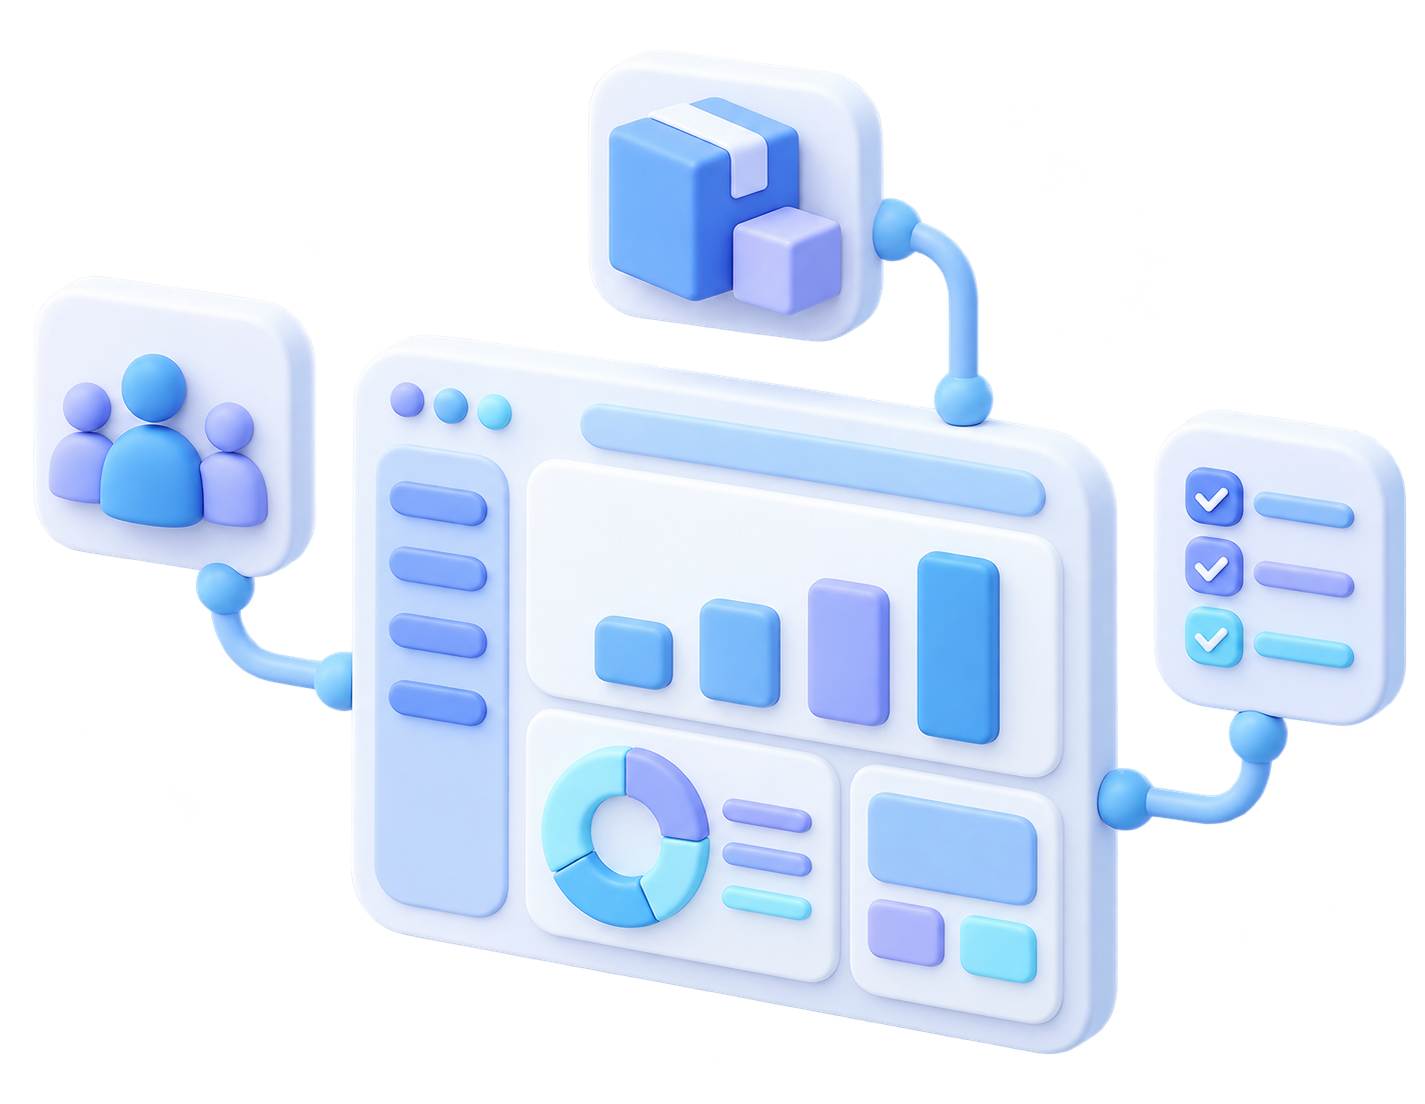
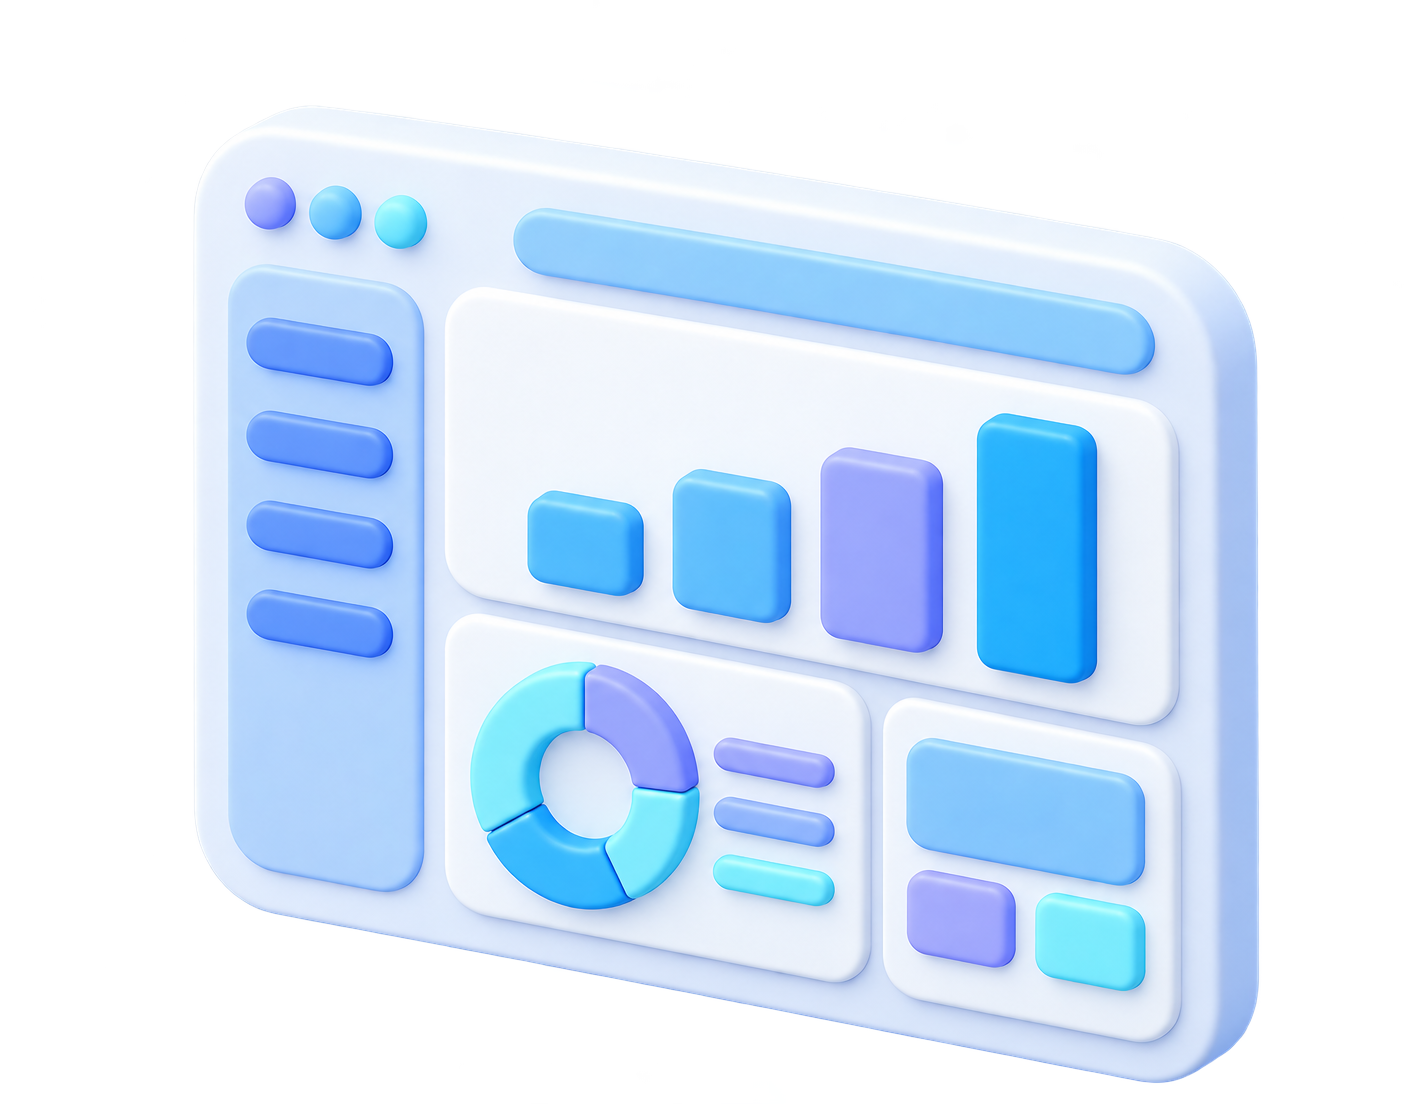
Simplify hero and show fixed Oni and Woni result characters

diff --git a/erp.js b/erp.js
@@ -1,5 +1,5 @@
 import { options, label, calculate, validateAnswers } from './supabase/functions/_shared/erp-rules.js';
-import { randomMascot, celebrate } from './erp-effects.js';
+import { resultCharacters, celebrate } from './erp-effects.js';
 
 const app = document.querySelector('#app');
 let stopCelebration = () => {};
@@ -22,7 +22,7 @@ function mount(html, focus = true) {
 function button(text, id, style='primary') { return `<button class="button ${style}" id="${id}" type="button">${text}</button>`; }
 function home() {
  state.step=-1;
- mount(`<section class="hero screen"><div class="hero-copy"><span class="pill"><i></i> 우리 회사의 다음 성장을 위한 첫걸음</span><p class="eyebrow">FIND YOUR NEXT ERP</p><h1>우리 회사에 딱 맞는<br><span>ERP, 함께 찾아볼까요?</span></h1><p class="hero-description">업무 방식부터 우리 회사만의 고민까지.<br>5가지 질문으로 만나는 <strong>ERP 가상 컨설팅 진단</strong></p><div class="hero-actions">${button('우리 회사 ERP 진단하기 <span aria-hidden="true">↗</span>','start')}<span class="time-note">약 3분 · 5가지 질문</span></div><div class="hero-points"><span>01 <b>우리 회사 이해하기</b></span><span>02 <b>업무 니즈 분석하기</b></span><span>03 <b>맞춤 ERP 만나기</b></span></div></div><div class="hero-art"><div class="art-orbit"></div><img class="dashboard" src="assets/erp-dashboard.png" alt="회계, 프로젝트, 재고를 연결하는 3D ERP 대시보드" fetchpriority="high"><span class="float-card float-top"><i class="mini-dot"></i> 흩어진 업무를 하나로</span><span class="float-card float-bottom"><span class="spark">✦</span> 성장에 맞는 솔루션</span></div><div class="hero-bottom"><span class="scroll-line"></span> 복잡한 ERP 선택, 이제 쉽게 시작하세요.</div></section>`,false);
+ mount(`<section class="hero"><div class="hero-copy"><p class="eyebrow">FIND YOUR NEXT ERP</p><h1>우리 회사에 딱 맞는<br><span>ERP, 함께 찾아볼까요?</span></h1><p class="hero-description">업무 방식부터 우리 회사만의 고민까지.<br>5가지 질문으로 만나는 <strong>ERP 가상 컨설팅 진단</strong></p><div class="hero-actions"><span class="time-note">약 3분 · 5가지 질문</span>${button('우리 회사 ERP 진단하기 <span aria-hidden="true">↗</span>','start')}</div><div class="hero-points"><span>01 <b>우리 회사 이해하기</b></span><span>02 <b>업무 니즈 분석하기</b></span><span>03 <b>맞춤 ERP 만나기</b></span></div></div><div class="hero-art"><img class="dashboard" src="assets/erp-dashboard.png" alt="막대그래프와 도넛 차트가 있는 심플한 3D ERP 대시보드" fetchpriority="high" width="1424" height="1104"></div><div class="hero-bottom"><span class="scroll-line"></span> 복잡한 ERP 선택, 이제 쉽게 시작하세요.</div></section>`,false);
  document.querySelector('#start').onclick=()=>{state.step=0;contactPage();};
 }
 function contactPage() {
@@ -55,7 +55,6 @@ function question(focus=true) {
  document.querySelector('#next').onclick=()=>{if(!complete(n)){const error=document.querySelector('#question-error');error.textContent='선택하지 않은 항목을 확인해 주세요.';return;}if(n<5){state.step++;question();}else analyze();};
 }
 function analyze() {
- state.mascot=null;
  state.result=calculate(state.answers);state.id=crypto.randomUUID();state.saved=false;
  mount(`<section class="loading screen"><div class="analysis-orb"><span>✦</span></div><p class="eyebrow">CONNECTING THE DOTS</p><h1>우리 회사의 다음 ERP를<br>찾고 있어요.</h1><p id="loading-copy" role="status" aria-live="polite">업종과 업무 방식을 살펴보고 있어요</p><div class="analysis-bars"><i></i><i></i><i></i></div></section>`);
  setTimeout(()=>{const copy=document.querySelector('#loading-copy');if(copy)copy.textContent='성장 규모와 필요한 기능을 연결하고 있어요';},650);
@@ -84,7 +83,6 @@ function recommendationDetails() {
  return [['현재 업무의 불편',label('pain',a.pain||'unknown')],['운영 범위',label('complexity',a.complexity||'unknown')],['현재 ERP',label('erp',a.erp)],...(a.erp==='douzone'?[['현재 제품',label('currentProduct',a.currentProduct||'unknown')],['자기평가 활용도',label('level',a.level)]]:[['관심 영역',label('category',a.category)]]),['보완할 기능',a.needs.map(id=>label('needs',id)).join(' / ')],['별도 개발·연계',label('custom',a.custom)],['연 매출 (참고)',label('revenue',a.revenue)],['임직원 (참고)',label('staff',a.staff)]];
 }
 function resultPage() {
- state.mascot ||= randomMascot();
  const r=state.result,a=state.answers;
  const headings={clarify:'업무 요구사항을 확인하면,\n더 적합한 후보를 찾을 수 있어요.',maintain:'지금의 방식을 살펴보고,\n필요한 부분만 보완하세요.',optimize:'이미 갖춘 ERP에서,\n개선의 가능성을 먼저 찾아보세요.',basic:'기본 경영 업무부터,\n필요한 범위를 차근차근.',integrate:'연결이 필요한 업무부터,\n통합 범위를 구체화해 보세요.',compare:'표준 기능과 확장 설계를,\n함께 비교해 보세요.'};
  const heading=headings[r.route];
@@ -99,12 +97,12 @@ function resultPage() {
  <div class="next-panel panel"><div><span class="eyebrow">BEFORE YOU DECIDE</span><h2>실제 도입 판단은,<br>업무 시나리오로 확인하세요.</h2></div><ol><li><b>필수 업무·예산 정리</b><span>실사용 인원, 월 거래량, 예산, 담당자와 목표 일정을 확인해요.</span></li><li><b>표준 기능으로 먼저 시연</b><span>보유 모듈과 후보 제품에서 실제 업무가 처리되는지 확인해요.</span></li><li><b>총비용·이전·운영 비교</b><span>라이선스, 개발·연계, 데이터 이전, 유지보수와 교육 비용을 함께 비교해요.</span></li></ol></div>
  <details class="rules panel"><summary>추천 기준과 내 답변 자세히 보기</summary><p>업종·매출·인원에 점수를 더하거나 50점 같은 임계값으로 제품을 나누지 않습니다. 현재 불편, 보완할 기능, 운영 복잡도와 기존 시스템을 기준으로 유지·활용 개선·후보 비교 방향을 정합니다. 자기평가 활용도는 객관적인 성숙도 등급이 아닙니다.</p><dl>${recommendationDetails().map(([key,value])=>`<div><dt>${key}</dt><dd>${esc(value)}</dd></div>`).join('')}</dl><p>구체적인 제품명·에디션·모듈 지원, 예산, 거래량, 데이터 이전과 도입 준비도는 상담에서 추가 확인해야 합니다. 본 규칙의 전환율·정확도는 아직 실증 검증되지 않았습니다.</p><p>규칙 버전: ${r.ruleVersion} · 기존 공유 링크도 최신 기준으로 다시 검토합니다.</p></details>
  <div class="result-actions">${button('이미지로 저장','download','secondary')}${button('PDF로 저장','print','secondary')}${button('결과 링크 공유','share')}${button('다시 진단하기','restart','text-button')}</div><p class="save-status" id="save-status" role="status">${state.shared?'공유된 답변을 최신 기준으로 검토했습니다. 회사명·담당자·이메일은 포함되지 않습니다.':state.saved?'진단 응답이 저장되었습니다.':'진단 결과는 현재 화면에서 확인할 수 있습니다.'}</p><p class="product-source">첨부 소개서는 기능 이해를 위한 자료이며, 계약 시점의 제품·에디션·모듈·요금은 별도 확인해 주세요.<br>제품 소개 참고: <a href="https://www.duzon119.co.kr/" target="_blank" rel="noopener">아이원소프트뱅크 ↗</a> · <a href="https://www.douzone.com/product/bportal.jsp" target="_blank" rel="noopener">더존 공식 제품 안내 ↗</a></p></section>`);
- const mascot=document.createElement('img');
- mascot.className='result-mascot';mascot.src=state.mascot.src;mascot.alt=`진단 완료를 축하하는 ${state.mascot.name} 캐릭터`;
- document.querySelector('.result-hero .pill').insertAdjacentElement('afterend',mascot);
+ const characters=document.createElement('div');characters.className='result-characters';
+ characters.innerHTML=resultCharacters.map(character=>`<img class="result-character" src="${character.src}" alt="진단 완료를 축하하는 ${character.name} 캐릭터" width="1254" height="1254">`).join('');
+ document.querySelector('.result-hero .pill').insertAdjacentElement('afterend',characters);
  const confetti=document.createElement('canvas');confetti.className='confetti-canvas';confetti.setAttribute('aria-hidden','true');
  app.prepend(confetti);stopCelebration=celebrate(confetti);
- document.querySelector('#restart').onclick=()=>{state.answers={needs:[]};state.contact={company:'',manager:'',email:''};state.consent=false;state.result=null;state.mascot=null;state.shared=false;state.saved=false;history.replaceState(null,'',location.pathname);home();};
+ document.querySelector('#restart').onclick=()=>{state.answers={needs:[]};state.contact={company:'',manager:'',email:''};state.consent=false;state.result=null;state.shared=false;state.saved=false;history.replaceState(null,'',location.pathname);home();};
  document.querySelector('#print').onclick=()=>window.print();
  document.querySelector('#download').onclick=download;
  document.querySelector('#share').onclick=share;
@@ -130,7 +128,11 @@ async function download() {
  ctx.fillStyle='#14294b';ctx.font='700 42px Pretendard, sans-serif';ctx.fillText('우리 회사에 맞는 ERP 가상 컨설팅 진단',110,200);
  ctx.font='500 24px Pretendard, sans-serif';ctx.fillStyle='#61718d';ctx.fillText(label('industry',state.answers.industry)+' · 연 매출 '+label('revenue',state.answers.revenue),110,250);
  ctx.fillStyle='#386ce5';ctx.font='700 40px Pretendard, sans-serif';ctx.fillText(state.result.routeLabel,110,350);ctx.font='400 22px Pretendard, sans-serif';ctx.fillText('업무 수요를 바탕으로 한 예비 검토 · 기업 등급 아님',110,400);
- if(state.mascot){const dog=new Image();dog.src=state.mascot.src;try{await dog.decode();const scale=Math.min(155/dog.naturalWidth,195/dog.naturalHeight);ctx.drawImage(dog,940,260,dog.naturalWidth*scale,dog.naturalHeight*scale);}catch{/* 이미지가 없더라도 진단 결과는 저장합니다. */}}
+ for(const [index,character] of resultCharacters.entries()){
+  const portrait=new Image();portrait.src=character.src;
+  try{await portrait.decode();const scale=Math.min(85/portrait.naturalWidth,155/portrait.naturalHeight);const width=portrait.naturalWidth*scale,height=portrait.naturalHeight*scale;ctx.drawImage(portrait,920+index*85+(85-width)/2,275+(155-height)/2,width,height);}catch{/* 캐릭터 로딩 실패 시에도 결과를 저장합니다. */}
+ }
+
  let y=485;if(!state.result.products.length){ctx.fillStyle='#61718d';ctx.font='500 26px Pretendard, sans-serif';ctx.fillText('기존 기능 점검 또는 요구사항 추가 확인을 먼저 권합니다.',110,y);}for(const id of state.result.products){const p=products[id];ctx.fillStyle='#14294b';ctx.font='700 30px Pretendard, sans-serif';ctx.fillText(p.name,110,y);ctx.fillStyle='#61718d';ctx.font='400 21px Pretendard, sans-serif';ctx.fillText(p.tag,430,y);y+=78;}
  ctx.fillStyle='#61718d';ctx.font='400 20px Pretendard, sans-serif';ctx.fillText('더존 제품 범위 내 예비 제안이며, 업종·매출에 가산점을 주지 않습니다.',110,920);ctx.fillText('구체적인 제품 기능과 도입 범위는 상세 상담에서 확인해 주세요.',110,955);ctx.fillStyle='#14294b';ctx.font='700 22px Pretendard, sans-serif';ctx.fillText('아이원소프트뱅크',110,1005);
  canvas.toBlob(blob=>{if(!blob)return;const url=URL.createObjectURL(blob),a=document.createElement('a');a.href=url;a.download='ERP-컨설팅-진단결과.png';a.click();setTimeout(()=>URL.revokeObjectURL(url),1000);});

diff --git a/index.html b/index.html
@@ -3,5 +3,5 @@
 <title>ERP 가상 컨설팅 진단 | 아이원소프트뱅크</title><meta name="description" content="5가지 질문으로 찾는 우리 회사에 맞는 ERP. 업종, 업무 방식, 성장 규모를 반영한 맞춤 솔루션을 만나보세요.">
 <meta property="og:type" content="website"><meta property="og:locale" content="ko_KR"><meta property="og:title" content="우리 회사에 맞는 ERP는? | ERP 가상 컨설팅 진단"><meta property="og:description" content="5가지 질문으로 찾는 우리 회사의 다음 ERP."><meta property="og:image" content="/assets/erp-og.png"><meta property="og:image:width" content="1200"><meta property="og:image:height" content="630"><meta name="twitter:card" content="summary_large_image"><meta name="twitter:image" content="/assets/erp-og.png">
 <link rel="icon" href="assets/erp-favicon.svg" type="image/svg+xml"><link rel="apple-touch-icon" href="assets/erp-touch.png"><link rel="stylesheet" crossorigin href="https://cdn.jsdelivr.net/gh/orioncactus/pretendard@v1.3.9/dist/web/static/pretendard.css"><link rel="stylesheet" href="erp.css"><script src="erp-config.js" defer></script><script src="erp.js" type="module"></script></head>
-<body><header class="header"><a href="./" aria-label="홈"><img src="assets/iwon-logo.png" class="logo" alt="DOUZONE Business Partner 아이원소프트뱅크"></a><span class="header-label">ERP VIRTUAL CONSULTING</span></header><main id="app" tabindex="-1"></main><footer class="footer"><span>아이원소프트뱅크</span><span>비즈니스의 다음 가능성을 연결합니다.</span><a href="erp-admin.html">응답 관리</a></footer>
+<body><header class="header"><a href="./" aria-label="홈"><img src="assets/iwon-logo.png" class="logo" alt="DOUZONE Business Partner 아이원소프트뱅크"></a><span class="header-label">ERP VIRTUAL CONSULTING</span></header><main id="app" tabindex="-1"></main><footer class="footer"><span>아이원소프트뱅크</span><span>비즈니스의 다음 가능성을 연결합니다.</span><a class="admin-link" href="erp-admin.html" aria-label="관리자 페이지 · 진단 응답 DB 관리">관리자 페이지 · DB ↗</a></footer>
 <dialog id="privacy-dialog"><form method="dialog"><button class="dialog-close" aria-label="닫기">×</button><p class="eyebrow">PRIVACY</p><h2>진단 정보 이용 안내</h2><p>회사명, 담당자명, 이메일은 맞춤 진단 결과 생성에 사용합니다. 서버 연결 전에는 현재 페이지에서만 처리하며 다시 시작하거나 페이지를 닫으면 삭제됩니다.</p><p>서버 저장 기능이 연결된 경우에만 회사명, 담당자명, 이메일, 선택한 답변, 추천 결과, 동의 시각을 저장합니다. 보유 기간은 진단일로부터 1년이며 운영자가 기간 경과 시 삭제합니다. 마케팅 발송에는 사용하지 않습니다.</p><p>동의를 거부할 수 있으며 이 경우 진단 진행이 제한됩니다. 문의·삭제 요청은 아이원소프트뱅크 담당자에게 요청해 주세요.</p><button class="button primary">확인했어요</button></form></dialog></body></html>

diff --git a/erp.css b/erp.css
@@ -15,11 +15,8 @@ body:after{content:"";position:fixed;inset:0;z-index:-1;pointer-events:none;back
 .header,.footer{width:100%;background:transparent}
 #app{flex:1;width:100%}
 .hero:before,.hero:after{content:none}
-.result-mascot{display:block;width:min(310px,70vw);height:280px;object-fit:contain;margin:22px auto 0;filter:drop-shadow(0 16px 22px #49689b20);animation:mascot-in .7s cubic-bezier(.2,.9,.25,1.15) both}
 .confetti-canvas{position:fixed;inset:0;width:100%;height:100%;z-index:100;pointer-events:none}
-@keyframes mascot-in{from{opacity:0;transform:translateY(28px) scale(.88)}to{opacity:1;transform:none}}
-@media(max-width:520px){.result-mascot{height:225px;margin-top:18px}}
-@media print{body:before,body:after,.confetti-canvas{display:none}.result-mascot{height:150px;width:180px;margin:10px auto}.result-hero{break-inside:avoid}}
+@media print{body:before,body:after,.confetti-canvas{display:none}.result-hero{break-inside:avoid}}
 .scope-notice{padding:16px 20px;border:1px solid #dce8f7;border-radius:14px;background:#ffffffbd;color:#607d9e;font-size:12px;line-height:1.8;margin-bottom:22px}
 .route-title{display:block;font-size:29px;line-height:1.4;color:#407be0;margin:25px 0}
 .fit-checks{padding-left:17px;color:#778ba6;font-size:12px;line-height:1.9;margin:20px 0 0}
@@ -88,4 +85,16 @@ dialog{max-height:calc(100dvh - 32px);overflow:auto;overscroll-behavior:contain}
  .result-actions{grid-template-columns:minmax(0,1fr)}
 }
 @media print{.product-guides,.comparison-note{display:none}.product-top{min-height:95px}}
+/* 메인 비주얼은 대시보드 한 장에 상하 부유 모션만 적용합니다. */
+.hero-actions{flex-direction:column;align-items:flex-start;gap:12px}
+.hero .time-note{font-size:12px;line-height:1.5}
+.hero .dashboard{height:auto;width:100%;max-width:620px;animation:dashboard-hover 6s ease-in-out infinite}
+.footer .admin-link{display:inline-flex;align-items:center;min-height:44px;font-size:11px;color:#6e84a3;line-height:1.5}
+.footer .admin-link:hover{text-decoration:underline;text-underline-offset:4px}
+@keyframes dashboard-hover{0%,100%{transform:translateY(0)}50%{transform:translateY(-14px)}}
+@media(max-width:800px){.hero-actions{align-items:center}.hero-art{min-height:0;padding:16px 0}.hero .dashboard{max-width:540px}}
+.result-characters{display:flex;align-items:flex-end;justify-content:center;gap:8px;width:min(440px,100%);margin:22px auto 0}
+.result-character{display:block;width:calc(50% - 4px);height:250px;object-fit:contain;filter:drop-shadow(0 12px 18px #49689b18)}
+@media(max-width:520px){.result-characters{max-width:340px;margin-top:18px;gap:4px}.result-character{width:calc(50% - 2px);height:190px}}
+@media print{.result-characters{max-width:270px;margin-top:10px}.result-character{height:140px}}
 @media(max-width:520px){.route-title{font-size:25px}.scope-notice{font-size:11px;padding:14px}.no-purchase{padding:24px}}

diff --git a/erp-effects.js b/erp-effects.js
@@ -1,12 +1,7 @@
-export const mascots = [
-  { src: 'assets/result-poodle.png', name: '초코푸들' },
-  { src: 'assets/result-pomeranian.png', name: '포메라니안' },
-  { src: 'assets/result-shiba.png', name: '시바견' },
-];
-
-export function randomMascot() {
-  return mascots[Math.floor(Math.random() * mascots.length)];
-}
+export const resultCharacters = Object.freeze([
+  { src: 'assets/character-oni.png', name: '온이' },
+  { src: 'assets/character-woni.png', name: '원이' },
+]);
 
 // 원본 AX/DX app.js의 celebrate(): 동일한 색상, 3개 발사점, 165개 입자와 물리 효과.
 export function celebrate(canvas) {

diff --git a/docs/MOBILE-QA.md b/docs/MOBILE-QA.md
@@ -33,3 +33,12 @@
 네 파일 모두 로컬 서버에서 HTTP 200 / `application/pdf`를 반환하고, 원본·브라우저 제공 파일·`dist` 파일의 바이트가 동일함을 확인했습니다. 결과 카드에 제품별 링크와 다운로드가 렌더링되며 ONE AI는 통합본 `#page=7`로 연결됩니다. IAB에서 새 탭 링크 클릭은 별도 PDF 뷰어 탭을 표시하지 않았으므로 해당 환경의 내장 PDF 뷰어 렌더링은 확인하지 못했습니다. 모바일 PDF 처리 및 페이지 fragment 지원은 브라우저에 따라 다르므로 다운로드 대안과 페이지 안내도 제공합니다.
 
 `npm test`: 기존 규칙·API 테스트 22개 통과. `npm run build` 통과. 계산 규칙/DB 변경 없음.
+
+## 단일 대시보드·고정 캐릭터 후속 확인
+
+- 메인에서 주변 카드·라벨·궤도 DOM 제거, 단일 대시보드 `dashboard-hover` 상하 모션 확인. 소요시간의 하단 좌표가 CTA 상단보다 위에 있는지 확인.
+- 푸터 `관리자 페이지 · DB` 클릭 시 실제 관리자 인증 화면으로 이동함을 확인.
+- 온이·원이 PNG는 각각 1254×1254 RGBA, 알파 0–255 확인. 결과에는 항상 두 이미지가 함께 표시되고 강아지 DOM은 없음.
+- 결과 320/390/768/1280px에서 두 이미지 정상 로딩 및 루트 가로 넘침 없음. 새로고침 후에도 같은 두 캐릭터 유지.
+- 결과 `이미지로 저장` 버튼으로 실제 PNG를 다운로드한 뒤 열어 두 캐릭터가 모두 포함되는지 시각 검증.
+- 후속 변경의 테스트 22개와 빌드 통과. 이 검증에서 실제 진단 응답 저장은 하지 않음.
